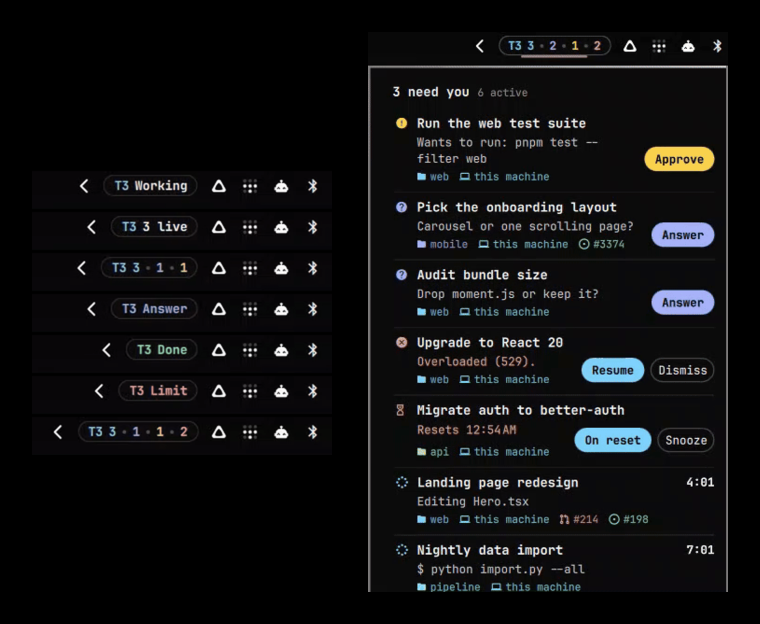
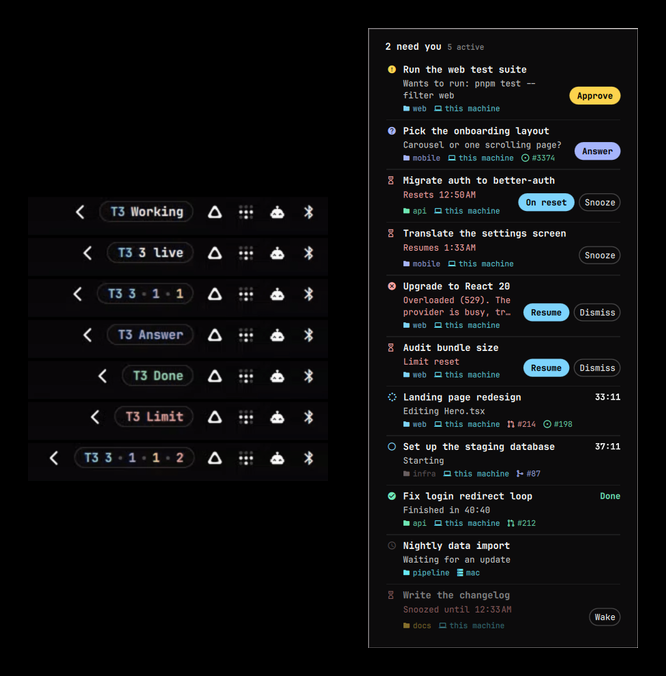
fix: council round 4: discovery keeps machines through failures, one row per machine, toast entities, dismissed queued resumes, plan checks

diff --git a/Service.qml b/Service.qml
@@ -150,13 +150,21 @@ Item {
   function planFor(t) { return root.plan[planKey(t)] }
   function limitPhase(t) { return Model.limitPhase(t, root.now, planFor(t)) }
   function isSnoozed(t) { return Model.snoozed(t, root.now, planFor(t)) }
-  function isResuming(t) { return !!root.resuming[planKey(t)] }
+  // Sent and waiting for its machine, or still queued behind another send.
+  function isResuming(t) {
+    var key = planKey(t)
+    return !!root.resuming[key] || root.jobs.some(function(j) { return j.key === key })
+  }
   function rowActions(t) {
     var p = planFor(t)
     return Model.actions(t, { phase: limitPhase(t), snoozed: isSnoozed(t), ownSnooze: !!(p && p.snooze), resuming: isResuming(t) })
   }
 
   function receive(host, parsed) {
+    // One machine reached under two names (a manual host and a discovered
+    // alias) is shown once: the first host to report an environment keeps it.
+    var owner = Object.keys(root.sources).filter(function(h) { return h !== host && root.sources[h] && root.sources[h].env === parsed.env })[0]
+    if (owner !== undefined) return
     delete root.staleSince[host]
     var first = !(host in root.seen)
     var events = first ? [] : Model.transitions(root.seen[host], parsed.threads)
@@ -237,9 +245,6 @@ Item {
       ? ["bash", "-lc", 'exec "$@"', "bash", "timeout", "60", "t3", "thread", "send", t.id, root.resumeMessage]
       : ["timeout", "60", "ssh", "-o", "BatchMode=yes", "-o", "ConnectTimeout=5", t.host,
          'PATH="$HOME/.local/bin:$HOME/.t3/bin:$PATH" t3 thread send ' + t.id + ' "' + root.resumeMessage + '"']
-    var resuming = Object.assign({}, root.resuming)
-    resuming[key] = Date.now()
-    root.resuming = resuming
     root.jobs = root.jobs.concat([{ argv: argv, key: key, title: t.title, env: t.env, id: t.id, ended: t.ended }])
     pump()
   }
@@ -297,6 +302,8 @@ Item {
     })
     root.plan = plan
     root.planLoaded = true
+    // Check the loaded plan against what the feeds already reported.
+    Object.keys(root.sources).forEach(function(h) { if (root.sources[h]) root.tidy(h, root.sources[h].threads) })
     pruneTimer.restart()
   }
 
@@ -307,7 +314,9 @@ Item {
       var p = planFor(t)
       // T3's own auto-resume, armed since, owns the reset: never send twice.
       if (t.recovery && t.recovery.autoResume) return
-      if (p && p.resume && t.state === "limited" && Model.limitPhase(t, root.now, p) === "reset") resumeNow(t)
+      // The plan must be for this very stop, even if it loaded after the snapshot.
+      var forThisStop = p && t.failure && p.resetAt === t.failure.resetAt && (!p.ended || p.ended === t.ended)
+      if (forThisStop && p.resume && t.state === "limited" && Model.limitPhase(t, root.now, p) === "reset") resumeNow(t)
     })
   }
 
@@ -321,7 +330,7 @@ Item {
       var job = root.jobs[0]
       root.jobs = root.jobs.slice(1)
       var t = root.allThreads.filter(function(x) { return planKey(x) === job.key })[0]
-      if (!t || !Model.stopped(t) || t.ended !== job.ended || (t.recovery && t.recovery.autoResume)) {
+      if (!t || !Model.stopped(t) || t.ended !== job.ended || (t.recovery && t.recovery.autoResume) || Model.dismissed(t, root.plan[job.key])) {
         var resuming = Object.assign({}, root.resuming)
         delete resuming[job.key]
         root.resuming = resuming
@@ -503,8 +512,11 @@ Item {
     id: discover
     command: ["sh", root.localPath("discover.sh")]
     stdout: StdioCollector {
+      // Only a complete answer (ending in "ok") replaces what was known.
       onStreamFinished: {
-        root.linkedText = Model.parseHosts(text.split("\n").join(",")).join(",")
+        var lines = text.split("\n").filter(function(l) { return l !== "" })
+        if (lines[lines.length - 1] !== "ok") return
+        root.linkedText = Model.parseHosts(lines.slice(0, -1).join(",")).join(",")
         root.discovered = true
       }
     }

diff --git a/BarWidget.qml b/BarWidget.qml
@@ -274,7 +274,7 @@ BarWidget {
     open: root.popupOpen
     contentWidth: popup.fittedContentWidth(Style.space(348))
     // A long list scrolls inside a card about eight rows tall.
-    contentHeight: popup.fittedContentHeight(Math.min(list.contentHeight, Style.space(560)))
+    contentHeight: popup.fittedContentHeight(list.contentHeight, Style.space(560))
 
     // Rows come in once per opening, a few at a time; they reset unseen
     // after the card has faded out.
@@ -302,6 +302,8 @@ BarWidget {
       anchors.fill: parent
       model: rows
       clip: true
+      // In a long list the headline comes back as soon as you scroll up.
+      headerPositioning: ListView.PullBackHeader
       interactive: contentHeight > height
       boundsBehavior: Flickable.StopAtBounds
 
@@ -544,7 +546,8 @@ BarWidget {
                   }
                   Text {
                     // The project gives way first, so the machine and PR stay in view.
-                    width: index === 0 ? Math.min(implicitWidth, metaLine.width * 0.4) : implicitWidth
+                    width: index === 0 && row.t.project ? Math.min(implicitWidth, metaLine.width * 0.4)
+                      : index <= 1 ? Math.min(implicitWidth, metaLine.width * 0.35) : implicitWidth
                     elide: Text.ElideRight
                     textFormat: Text.PlainText
                     text: modelData[1]

diff --git a/Model.js b/Model.js
@@ -228,8 +228,9 @@ function readable(hex, bg, fg, target) {
 // Toast text shows as typed: Omarchy's notifications decode entities more
 // than once before rendering their few allowed tags, so escaping alone can't
 // keep "<b>" literal. Angle brackets become look-alikes instead.
+// Entities are broken too, so "&lt;b&gt;" can't decode into a tag.
 function toastText(text) {
-  return String(text || "").replace(/</g, "\u2039").replace(/>/g, "\u203a")
+  return String(text || "").replace(/&(?=#?[A-Za-z0-9]+;)/g, "&\u2060").replace(/</g, "\u2039").replace(/>/g, "\u203a")
 }
 // Black or white, whichever reads better on a filled button.
 function inkOn(fill) {

diff --git a/README.md b/README.md
@@ -15,7 +15,7 @@ It speaks the language of T3 Code's own mobile live notification: one word when 
 - **Decisions happen where the context is.** Answering a question, approving a command or settling a thread needs the whole thread, so those open it in T3 Code. The list only does what needs no context: resume, wait for a limit, snooze, dismiss.
 - **Mirror T3, don't fork it.** Its words, its colors, its resume message. It reads T3's state and never writes it; the only thing it keeps is a small plan file whose entries end on their own.
 - **Fit Omarchy.** Theme surfaces, Omarchy's motion rules (short, ease-out, no bounce, off when animations are off) and plain-text safety for anything that comes from another machine.
-- **Left out on purpose:** answering inline, a message box, history, usage meters (Omarchy's Agents widget has those), and settings beyond the three you might actually change.
+- **Left out on purpose:** answering inline, a message box, history, usage meters (Omarchy's Agents widget has those), and settings beyond the few you might actually change.
 
 ## Install
 
@@ -29,7 +29,7 @@ To remove it:
 
 ```sh
 omarchy plugin remove siam.t3-live
-rm -rf ~/.local/state/omarchy-t3-live   # its plan file, if you want it gone too
+rm -f "${XDG_STATE_HOME:-$HOME/.local/state}/omarchy-t3-live/plan.json"   # its plan file, if you want it gone too
 ```
 
 ## The island
